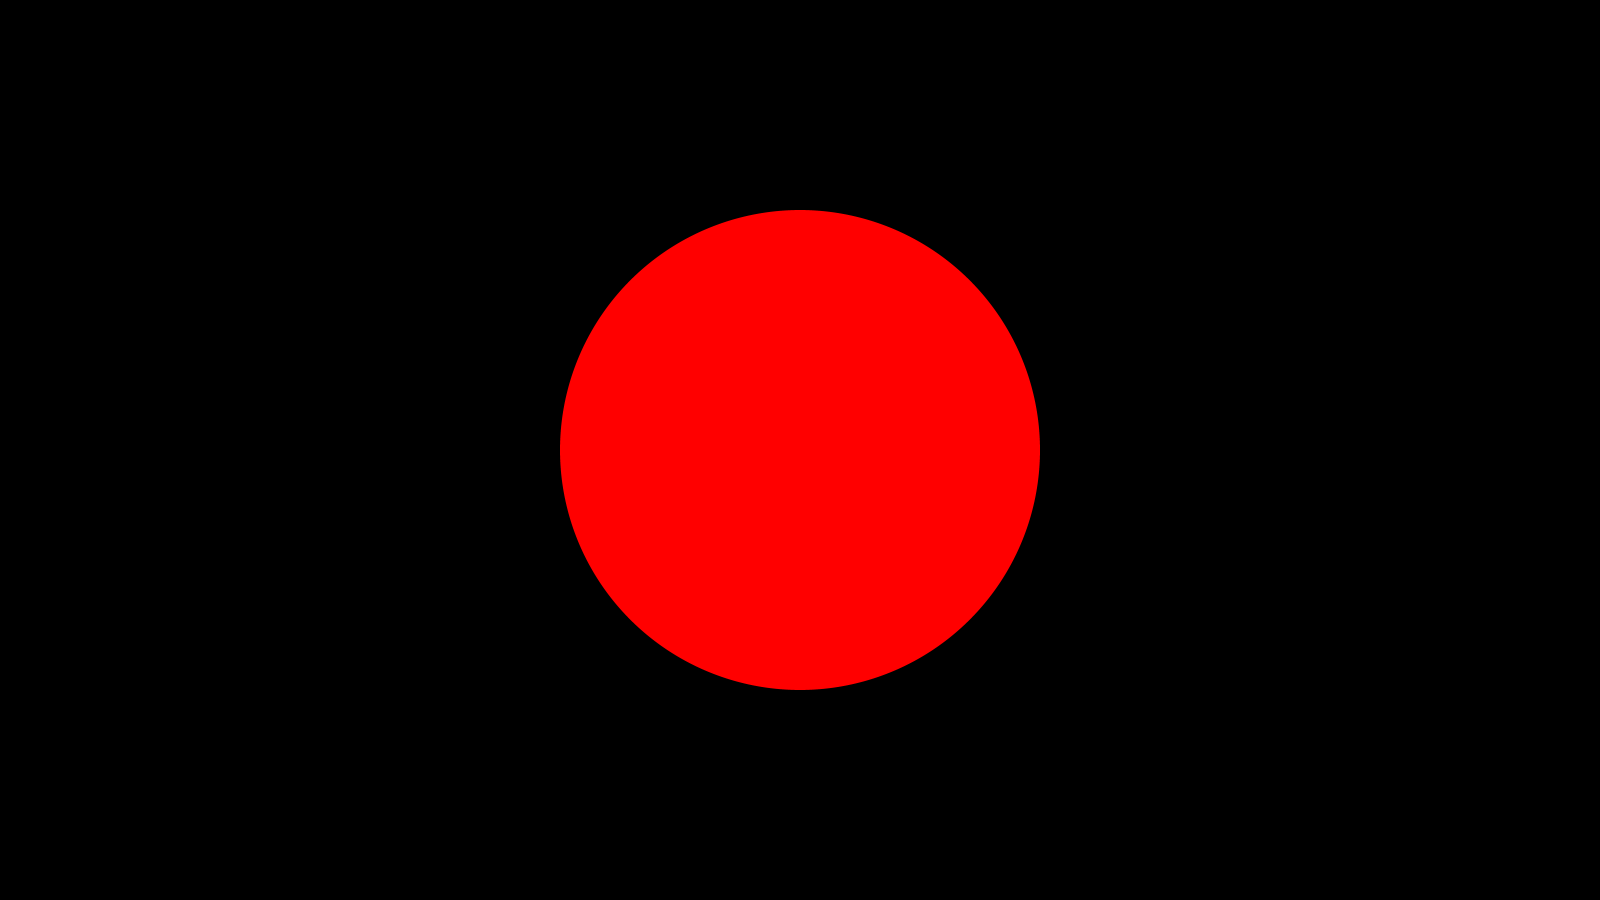
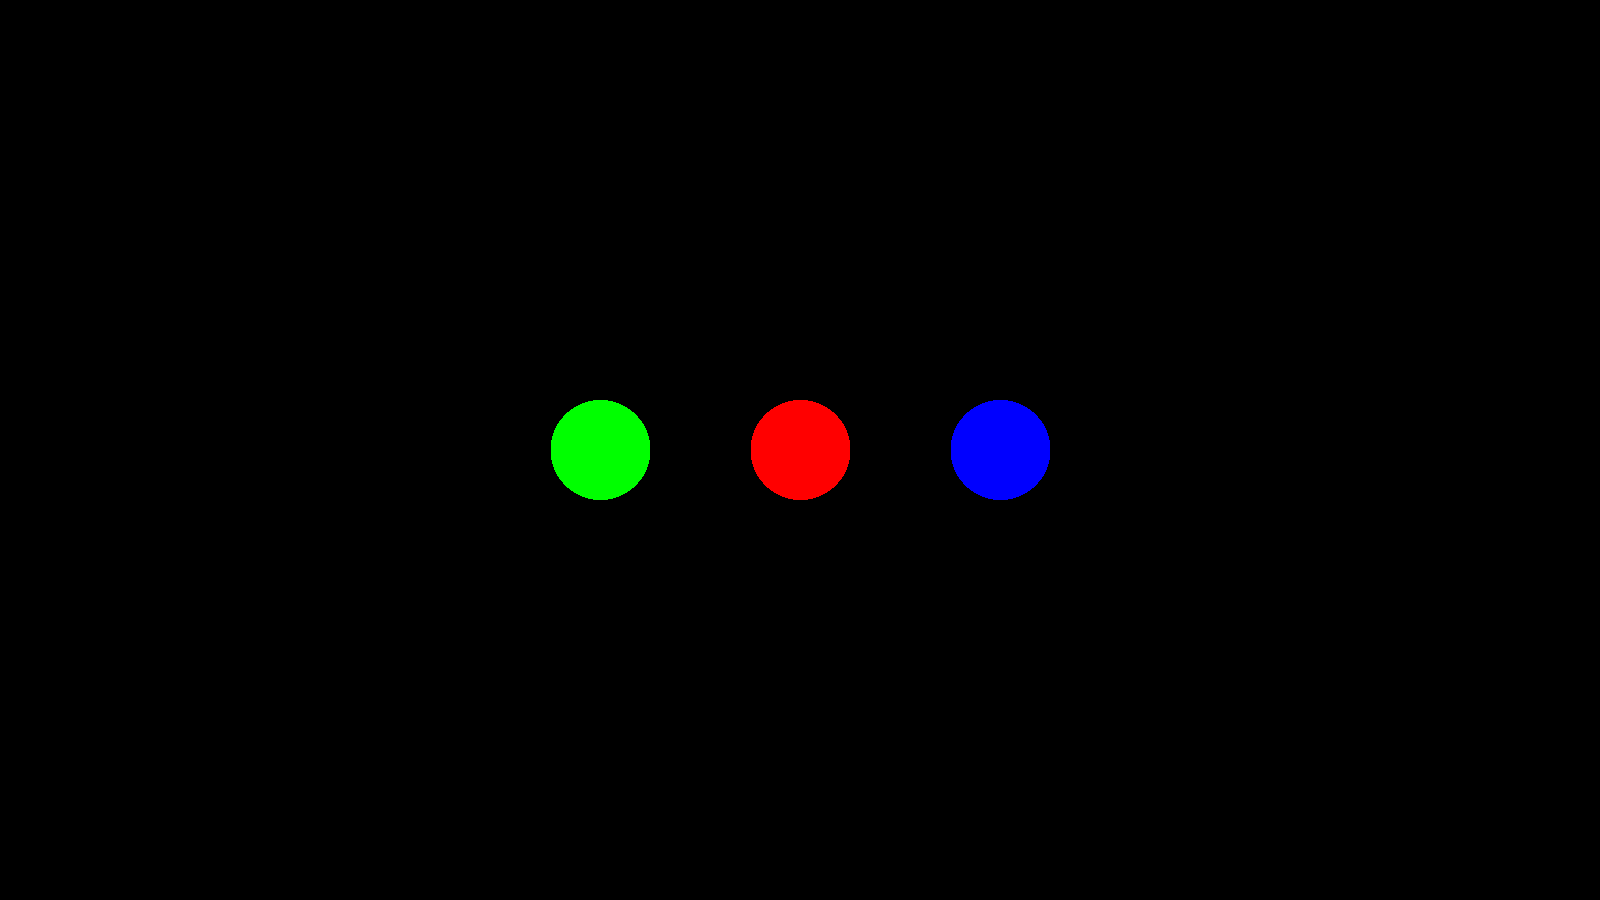
Add files via upload

Changed region(s): [[0.3438, 0.2178, 0.6562, 0.7778]]

diff --git a/RayTracer/src/main/Driver.java b/RayTracer/src/main/Driver.java
@@ -1,10 +1,12 @@
 package main;
 
 import Utility.Color;
+import Utility.Image;
 import Utility.Point3D;
 import Utility.Ray;
 import Utility.Vector3D;
 import geometry.Sphere;
+import scene.World;
 
 import javax.imageio.ImageIO;
 import java.awt.image.BufferedImage;
@@ -13,37 +15,27 @@ import java.io.IOException;
 import java.util.Random;
 
 public class Driver {
+
+    public static World world;
+    public static Image image;
+    public static Tracer tracer;
+
     public static void main(String[] args) throws IOException {
         long start = System.nanoTime();
 
-        Random random = new Random();
-
-        int width = 1600;
-        int height = 900;
-
-        File image = new File("Image.png");
-        BufferedImage buffer = new BufferedImage(width, height, BufferedImage.TYPE_INT_RGB);
+        world = new World(1600,900,1.0);
+        image = new Image("Image.png");
+        tracer = new Tracer();
 
         Sphere sphere = new Sphere(new Point3D(0.0,0.0,0.0), 60.0, new Color(1.0F,0.0F,0.0F));
 
-        for(int y = 0; y < height; y++){
-            for(int x = 0; x < width; x++){
-                Color color = new Color(0.0F,0.0F,0.0F);
-                for(int row = 0; row < 8; row ++){
-                    for(int col = 0; col < 8; col++){
-                        Ray ray = new Ray(new Point3D(0.25*(x-width/2+(col+0.5)/8), 0.25*(y-height/2+(row+0.5)/8),100), new Vector3D(0.0,0.0,-1.0));
-
-                        if(sphere.hit(ray) != 0.0){
-                            color.add(sphere.color);
-                        }
-                    }
-                }
-                color.divide(64);
-                buffer.setRGB(x,y,color.toInteger());
+        for(int y = 0; y < world.viewPlane.height; y++){
+            for(int x = 0; x < world.viewPlane.width; x++){
+                tracer.trace(x,y);
             }
         }
 
-        ImageIO.write(buffer, "PNG", image);
+        image.write("PNG");
 
         long end = System.nanoTime();
         System.out.println((end-start)/1000000000.0F);

diff --git a/RayTracer/src/scene/World.java b/RayTracer/src/scene/World.java
@@ -1,0 +1,26 @@
+package scene;
+import geometry.GeometricObject;
+import Utility.Color;
+import Utility.Point3D;
+import geometry.Sphere;
+import Utility.Normal;
+import geometry.GeometricObject;
+import geometry.Plane;
+
+import java.util.ArrayList;
+
+public class World {
+    public ViewPlane viewPlane;
+    public ArrayList<GeometricObject> objects;
+    public Color background;
+
+    public World(int width, int height, double size){
+        viewPlane = new ViewPlane(width, height, size);
+        background = new Color(0.0F, 0.0F, 0.0F);
+        objects = new ArrayList<GeometricObject>();
+        objects.add(new Sphere(new Point3D(0.0,0.0,0.0), 50, new Color(1.0F, 0.0F, 0.0F)));
+        objects.add(new Sphere(new Point3D(-200.0,0.0,0.0), 50, new Color(0.0F, 1.0F, 0.0F)));
+        objects.add(new Sphere(new Point3D(200.0,0.0,0.0), 50, new Color(0.0F, 0.0F, 1.0F)));
+        objects.add(new Plane(new Point3D(0.0,0.0,0.0), new Normal(0.0,1.0,1.0), new Color(1.0F,1.0F,0.0F)));
+    }
+}

diff --git a/RayTracer/src/main/Tracer.java b/RayTracer/src/main/Tracer.java
@@ -1,0 +1,23 @@
+package main;
+
+import Utility.*;
+import geometry.*;
+
+public class Tracer {
+    public void trace(int x, int y){
+        Ray ray = new Ray(new Point3D(1.0*(x-Driver.world.viewPlane.width/2), 1.0*(y-Driver.world.viewPlane.height/2+.5), 100), new Vector3D(0.0, 0.0, -1.0));
+        double min = Double.MAX_VALUE;
+        Color color = Driver.world.background;
+
+        for(int i = 0; i < Driver.world.objects.size(); i++){
+            double temp = Driver.world.objects.get(i).hit(ray);
+            if (Driver.world.objects.get(i).hit(ray) != 0.0){
+                if (temp != 0.0 && temp < min){
+                    color = Driver.world.objects.get(i).color;
+                    min = temp;
+                }
+            }
+        }
+        Driver.image.buffer.setRGB(x,y,color.toInteger());
+    }
+}

diff --git a/RayTracer/src/Utility/Image.java b/RayTracer/src/Utility/Image.java
@@ -1,0 +1,23 @@
+package Utility;
+
+import java.awt.image.BufferedImage;
+import java.io.File;
+import java.io.IOException;
+
+import main.Driver;
+
+import javax.imageio.ImageIO;
+
+public class Image {
+    public BufferedImage buffer;
+    public File image;
+
+    public Image(String filename){
+        image = new File(filename);
+        buffer = new BufferedImage(Driver.world.viewPlane.width,Driver.world.viewPlane.height, BufferedImage.TYPE_INT_RGB);
+    }
+
+    public void write(String filetype) throws IOException {
+        ImageIO.write(buffer, filetype, image);
+    }
+}

diff --git a/RayTracer/src/scene/ViewPlane.java b/RayTracer/src/scene/ViewPlane.java
@@ -1,0 +1,13 @@
+package scene;
+
+public class ViewPlane {
+    public int width;
+    public int height;
+    public double size;
+
+    public ViewPlane(int width, int height, double size){
+        this.width = width;
+        this.height = height;
+        this.size = size;
+    }
+}

diff --git a/RayTracer/src/geometry/Plane.java b/RayTracer/src/geometry/Plane.java
@@ -5,7 +5,7 @@ import Utility.Normal;
 import Utility.Point3D;
 import Utility.Ray;
 
-public class Plane {
+public class Plane extends GeometricObject{
     Point3D point;
     Normal normal;
     Color color;
